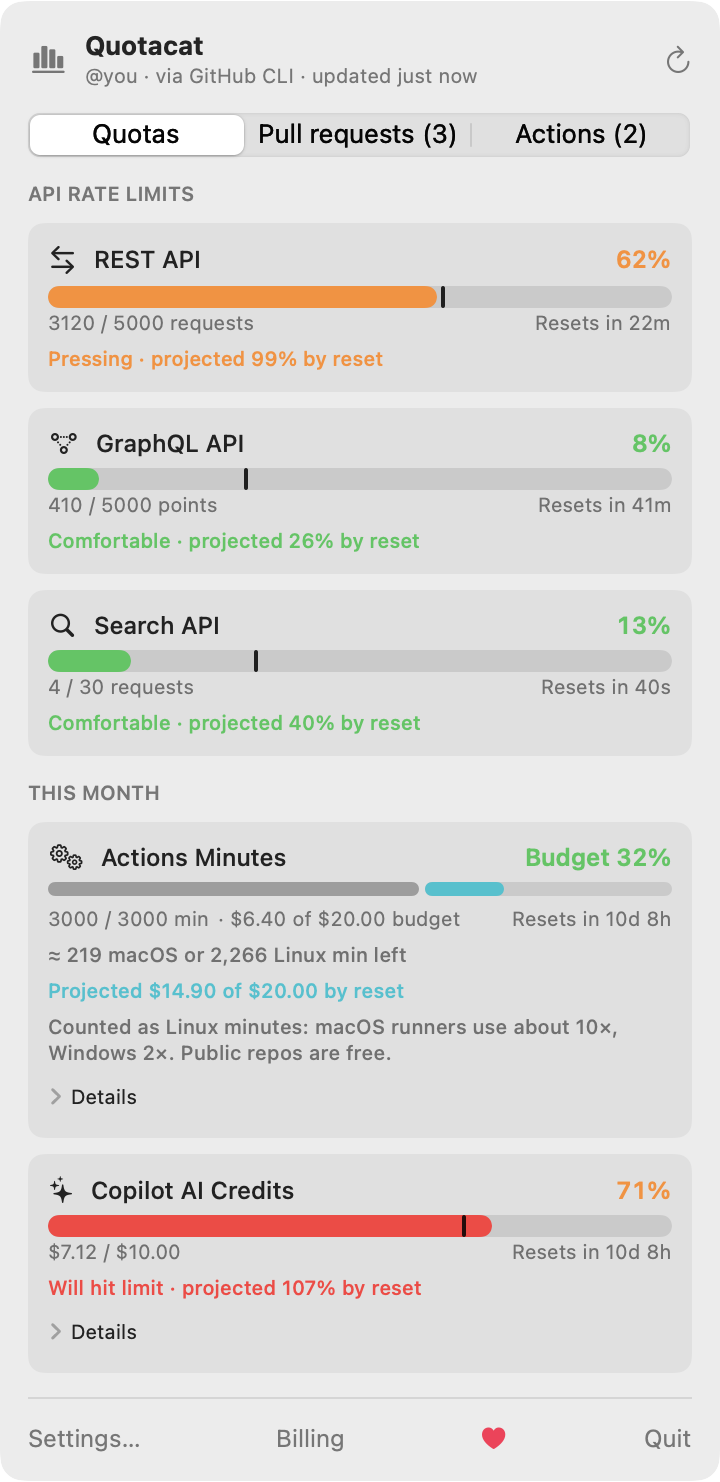
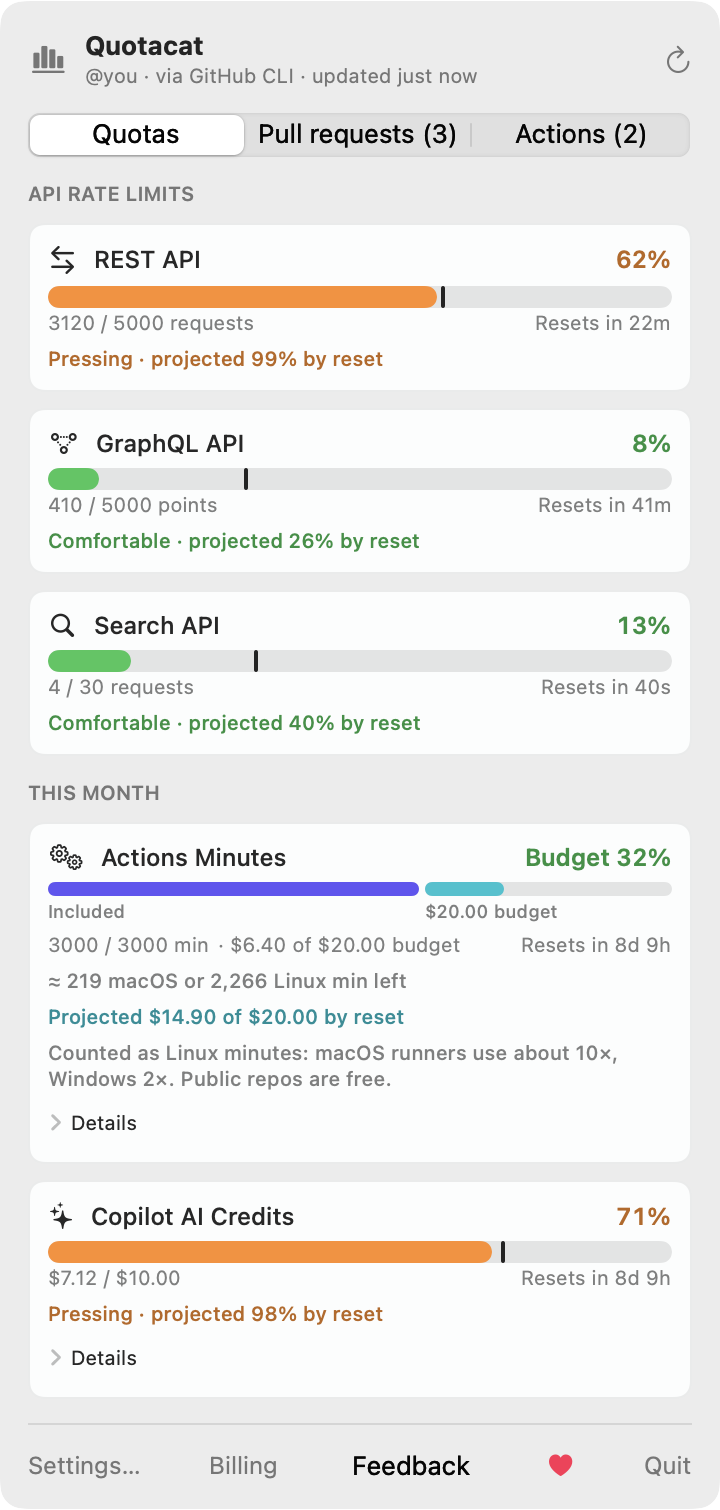
Fix the light theme and the greyed-out Actions bar
- Activate the app when the popover opens; as a menu-bar-only app it was
  never active, so the popover's controls drew in the dimmed inactive
  style (dark grey selected tab, faded buttons)
- Light mode: white cards with a hairline border instead of translucent
  grey on grey; accent colors used as text are darkened for contrast
- Actions budget bar: used-up included minutes are solid indigo instead
  of grey, with "Included" and "$N budget" labels under the two zones
- README screenshots re-rendered

diff --git a/Sources/Quotacat/PopoverView.swift b/Sources/Quotacat/PopoverView.swift
@@ -230,7 +230,7 @@ struct PopoverView: View {
                 Divider()
                 Button("Copy Diagnostics") { Feedback.copyDiagnostics(store: store) }
             } label: {
-                Text("Feedback").foregroundStyle(.secondary)   // match the borderless buttons beside it
+                Text("Feedback")
             }
             .menuStyle(.borderlessButton)
             .menuIndicator(.hidden)
@@ -267,7 +267,7 @@ struct MetricCard: View {
     }
 
     private var meterColor: Color { Color(ns: Theme.barColor(for: metric, now: now, paceAware: paceColoring)) }
-    private var percentColor: Color { Color(ns: Theme.status(UsageMath.statusLevel(fraction: metric.displayFraction))) }
+    private var percentColor: Color { Color(ns: Theme.readable(Theme.status(UsageMath.statusLevel(fraction: metric.displayFraction)))) }
     private var percentText: String { "\(Int((metric.displayFraction * 100).rounded()))%" }
 
     var body: some View {
@@ -282,7 +282,7 @@ struct MetricCard: View {
             }
         }
         .padding(10)
-        .background(.quaternary.opacity(0.5), in: RoundedRectangle(cornerRadius: 8))
+        .card()
     }
 
     /// Default layout: title and percentage on one line, a horizontal bar, then the caption.
@@ -295,9 +295,12 @@ struct MetricCard: View {
                 .foregroundStyle(percentColor)
         }
         if let budget = metric.budget {
+            // Used-up included minutes stay a solid brand indigo (grey read as "disabled");
+            // the budget zone carries the pace color.
             TwoStageBar(included: metric.fraction, budget: metric.inBudgetStage ? budget.fraction : 0,
-                        includedColor: metric.inBudgetStage ? Color.secondary.opacity(0.45) : meterColor,
-                        budgetColor: meterColor)
+                        includedColor: metric.inBudgetStage ? Color(ns: .systemIndigo) : meterColor,
+                        budgetColor: meterColor,
+                        budgetLabel: "\(money(budget.amount)) budget")
         } else {
             UsageBar(fraction: metric.fraction, elapsed: elapsed, color: meterColor,
                      markerColor: .primary)  // the bar and caption already carry the pace color
@@ -388,7 +391,7 @@ struct MetricCard: View {
                     let tier = UsageMath.paceTier(projected: p / b.amount)
                     Text(projectionText(b, projected: p))
                         .font(.caption2)
-                        .foregroundStyle(Color(ns: Theme.pace(tier)))
+                        .foregroundStyle(Color(ns: Theme.readable(Theme.pace(tier))))
                 }
             }
         }
@@ -410,7 +413,7 @@ struct MetricCard: View {
             let tier = UsageMath.paceTier(projected: p)
             Text("\(tier.title) · projected \(Int((p * 100).rounded()))% by reset")
                 .font(.caption2)
-                .foregroundStyle(Color(ns: Theme.pace(tier)))
+                .foregroundStyle(Color(ns: Theme.readable(Theme.pace(tier))))
         }
     }
 
@@ -441,18 +444,30 @@ struct TwoStageBar: View {
     let budget: Double
     let includedColor: Color
     let budgetColor: Color
+    var budgetLabel = "Budget"
 
     var body: some View {
         GeometryReader { geo in
             let gap: CGFloat = 3
             let first = (geo.size.width - gap) * 0.6
             let second = geo.size.width - gap - first
-            HStack(spacing: gap) {
-                zone(width: first, fraction: included, color: includedColor).help("Included minutes")
-                zone(width: second, fraction: budget, color: budgetColor).help("Budget")
+            VStack(alignment: .leading, spacing: 2) {
+                HStack(spacing: gap) {
+                    zone(width: first, fraction: included, color: includedColor).help("Included minutes")
+                    zone(width: second, fraction: budget, color: budgetColor).help("Budget")
+                }
+                .frame(height: 7)
+                // Name the two zones so the split reads at a glance.
+                HStack(spacing: gap) {
+                    Text("Included").frame(width: first, alignment: .leading)
+                    Text(budgetLabel).frame(width: second, alignment: .leading)
+                }
+                .font(.system(size: 9, weight: .medium))
+                .foregroundStyle(.secondary)
+                .lineLimit(1)
             }
         }
-        .frame(height: 7)
+        .frame(height: 20)
     }
 
     private func zone(width: CGFloat, fraction: Double, color: Color) -> some View {
@@ -511,7 +526,7 @@ struct SignInCard: View {
             }
         }
         .padding(12)
-        .background(.quaternary.opacity(0.5), in: RoundedRectangle(cornerRadius: 8))
+        .card()
     }
 }
 
@@ -596,6 +611,6 @@ struct IssueRow: View {
         }
         .padding(10)
         .frame(maxWidth: .infinity, alignment: .leading)
-        .background(.quaternary.opacity(0.5), in: RoundedRectangle(cornerRadius: 8))
+        .card()
     }
 }

diff --git a/Sources/Quotacat/Theme.swift b/Sources/Quotacat/Theme.swift
@@ -40,3 +40,33 @@ enum Theme {
 extension Color {
     init(ns: NSColor) { self.init(nsColor: ns) }
 }
+
+extension Theme {
+    /// Accent colors as text: the bright system colors are hard to read on a light background,
+    /// so in light appearances they're darkened; dark appearances keep them as-is.
+    static func readable(_ color: NSColor) -> NSColor {
+        NSColor(name: nil) { appearance in
+            appearance.bestMatch(from: [.darkAqua, .aqua]) == .darkAqua
+                ? color
+                : (color.blended(withFraction: 0.32, of: .black) ?? color)
+        }
+    }
+}
+
+/// Card surface: white with a hairline border in light mode (the translucent grey of dark mode
+/// looked muddy on the light popover), the existing translucent fill in dark mode.
+struct CardBackground: ViewModifier {
+    @Environment(\.colorScheme) private var scheme
+
+    func body(content: Content) -> some View {
+        let shape = RoundedRectangle(cornerRadius: 8)
+        return content
+            .background(shape.fill(scheme == .dark ? AnyShapeStyle(.quaternary.opacity(0.5))
+                                                   : AnyShapeStyle(Color.white.opacity(0.9))))
+            .overlay(shape.strokeBorder(Color.black.opacity(scheme == .dark ? 0 : 0.07), lineWidth: 1))
+    }
+}
+
+extension View {
+    func card() -> some View { modifier(CardBackground()) }
+}

diff --git a/Sources/Quotacat/PullRequestsView.swift b/Sources/Quotacat/PullRequestsView.swift
@@ -38,7 +38,7 @@ struct PullRequestsView: View {
                 Text(empty).font(.callout).foregroundStyle(.secondary)
                     .padding(10)
                     .frame(maxWidth: .infinity, alignment: .leading)
-                    .background(.quaternary.opacity(0.5), in: RoundedRectangle(cornerRadius: 8))
+                    .card()
             } else {
                 VStack(spacing: 0) {
                     ForEach(Array(items.prefix(Self.maxRows).enumerated()), id: \.element.id) { index, pr in
@@ -53,7 +53,7 @@ struct PullRequestsView: View {
                             .frame(maxWidth: .infinity, alignment: .leading)
                     }
                 }
-                .background(.quaternary.opacity(0.5), in: RoundedRectangle(cornerRadius: 8))
+                .card()
             }
         }
     }

diff --git a/Sources/Quotacat/ActionsView.swift b/Sources/Quotacat/ActionsView.swift
@@ -25,7 +25,7 @@ struct ActionsView: View {
                             FailingWorkflowRow(failure: f, now: now)
                         }
                     }
-                    .background(.quaternary.opacity(0.5), in: RoundedRectangle(cornerRadius: 8))
+                    .card()
                 }
                 HStack {
                     Text("Watching \(status.watchedRepos.count) \(status.watchedRepos.count == 1 ? "repository" : "repositories")")
@@ -56,7 +56,7 @@ struct ActionsView: View {
         }
         .padding(10)
         .frame(maxWidth: .infinity, alignment: .leading)
-        .background(.quaternary.opacity(0.5), in: RoundedRectangle(cornerRadius: 8))
+        .card()
     }
 }
 

diff --git a/Sources/Quotacat/App.swift b/Sources/Quotacat/App.swift
@@ -71,6 +71,9 @@ final class AppDelegate: NSObject, NSApplicationDelegate {
         if popover.isShown {
             popover.performClose(nil)
         } else {
+            // Activate first: as a menu-bar-only app Quotacat is otherwise never the active app, and
+            // the popover's controls then draw in macOS's dimmed "inactive window" style.
+            NSApp.activate()
             popover.show(relativeTo: button.bounds, of: button, preferredEdge: .minY)
             popover.contentViewController?.view.window?.makeKey()
         }
